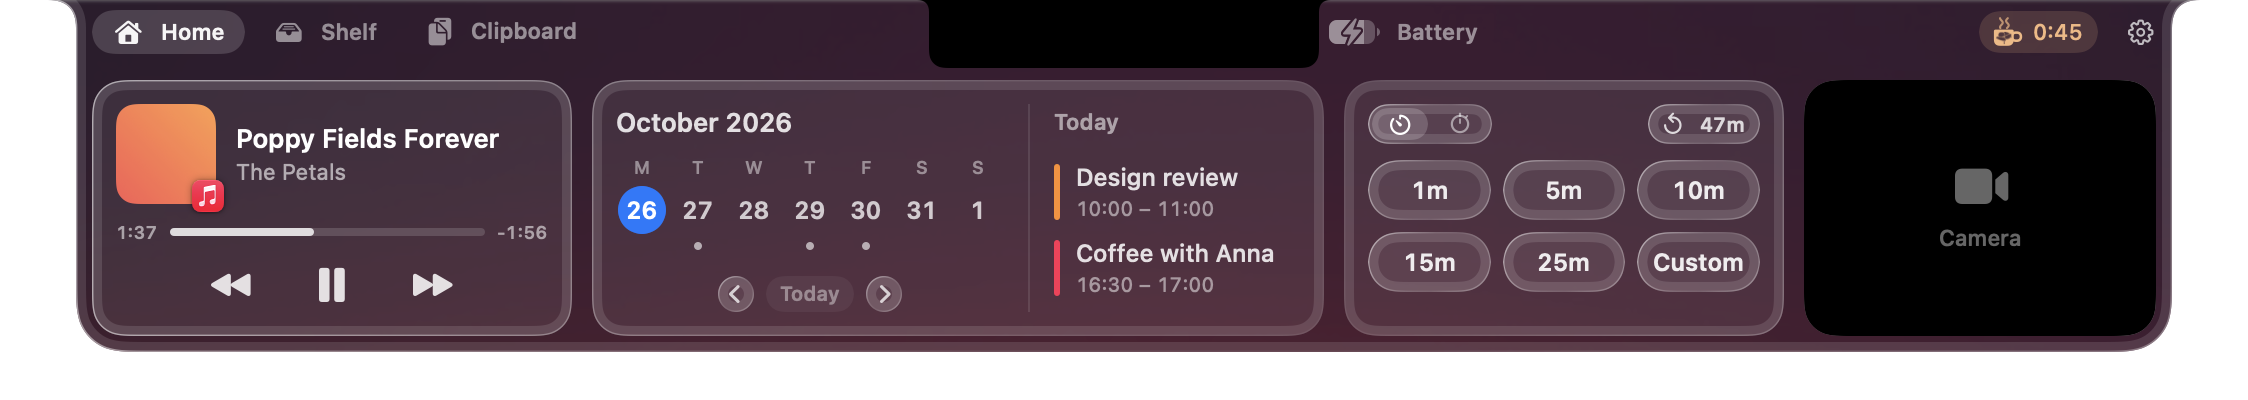
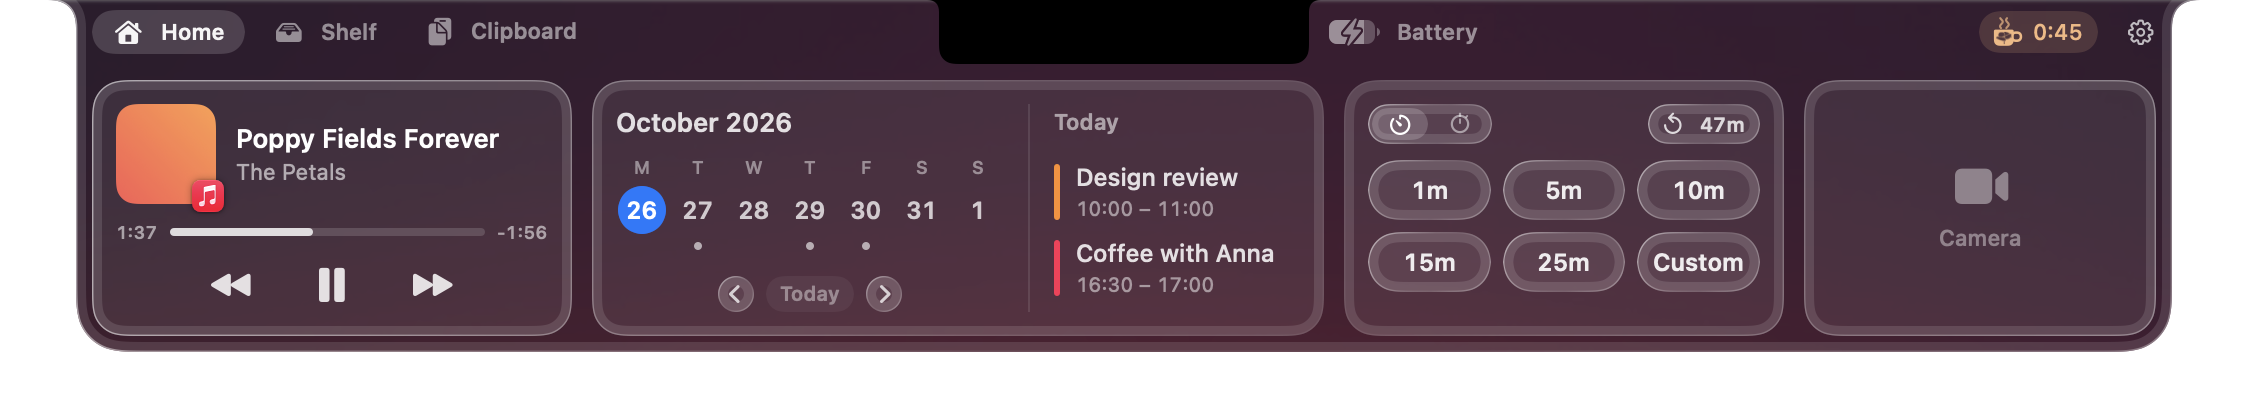
0.2.2 changelog; camera card in renders

Changed region(s): [[0.7785, 0.18, 0.9653, 0.84], [0.4048, 0.0, 0.5916, 0.18]]

diff --git a/CHANGELOG.md b/CHANGELOG.md
@@ -1,5 +1,11 @@
 # Changelog
 
+## 0.2.2
+
+- **Notch**: the closed notch is now exactly the size of the camera notch, like the real one. Make it bigger in **Settings → Notch** if you'd like.
+- **Notch**: the camera on Home is a card like the others until you click it, instead of a black block.
+- **Settings**: sliders are wider, with − and + for small steps and a button to reset them.
+
 ## 0.2.1
 
 - **Notch**: the open notch's bottom corners now follow the cards inside them, so the black edge around them is the same width all the way round.
